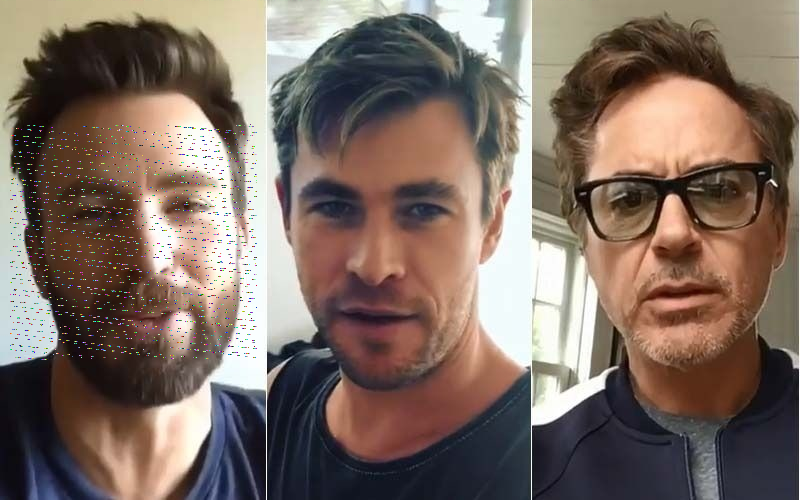
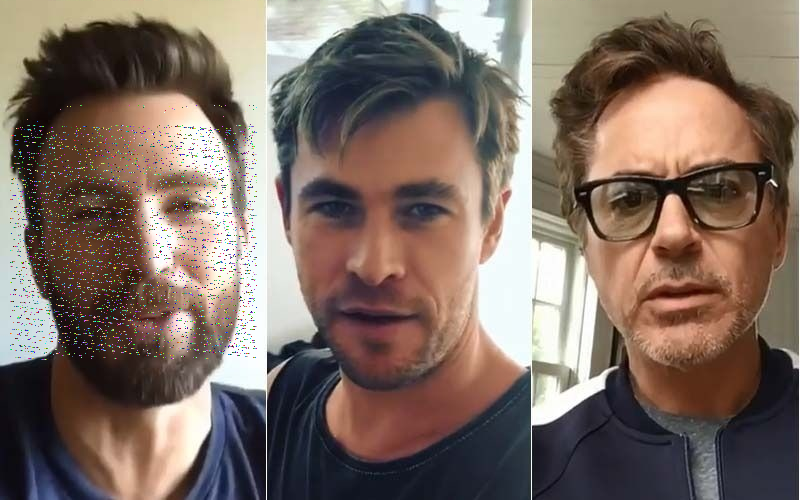
added gui all buttons except share

diff --git a/Encryption/UserInterface.py b/Encryption/UserInterface.py
@@ -1,7 +1,10 @@
 import tkinter as tk
 from tkinter import filedialog, Text
+
+import cv2
 from PIL import ImageTk, Image
 import Encryption.Encrypt as enc
+import Decryption.Decrypt as dec
 import os
 
 class Application:
@@ -17,7 +20,7 @@ class Application:
         return
 
     def upload(self):
-        dir=r"C:\Users\PUSHPENDRA KUMAR\PycharmProjects\FaceCrypto\Encryption\Images"
+        dir= r"/Encryption/Images"
         self.filedir = filedialog.askopenfilename(initialdir=dir,title='select images',
                            filetypes=[('Image Files', ['.jpeg', '.jpg', '.png', ])])
         # print(self.filedir)
@@ -35,7 +38,7 @@ class Application:
     def createWidgets(self,filename):
         # create a canvas with background image
         self.window.title("Face Cryptography")
-        self.window.iconbitmap("F:\downloads\pic.jpg")
+        self.window.iconbitmap("")
         self.window.geometry('610x500')
         frame=tk.Frame(self.window,width=500,height=300,highlightbackground='red'
                        ,highlightthickness=3)
@@ -43,6 +46,7 @@ class Application:
         folder = "F:\downloads"
         # self.canvas = tk.Canvas(frame, height=1000, width=1000, bg="white")
         image = ImageTk.PhotoImage(Image.open(os.path.join(folder, filename)))
+        # image=cv2.imread("Images\\pic.jpg")
         label = tk.Label(image=image)
         label.grid(row=0, column=0)
         # frame.pack()
@@ -56,7 +60,7 @@ class Application:
         share_image = tk.Button(buttonframe,bg="black",fg="white",text="share"
                                ,padx=10,pady=10)
         decrypt_image = tk.Button(buttonframe,bg="black",fg="white",text="decrypt"
-                               ,padx=10,pady=10)
+                               ,padx=10,pady=10,command=dec.main)
         exit = tk.Button(buttonframe, bg="black", fg="white", text="exit"
                                   , padx=10, pady=10,command=self.exit)
         upload_image.grid(row=0,column=0,sticky='E',padx=10,pady=10)

diff --git a/Encryption/FaceDetection.py b/Encryption/FaceDetection.py
@@ -14,14 +14,14 @@ class Detection:
     def faceDetector(self):
         #print(self.filename)
         # imagePath =self.filepath
-        imagePath='image3.png'
+        # imagePath='image3.png'
         cascPath = cv2.data.haarcascades+'haarcascade_frontalface_default.xml'
         # create a face cascade
         faceCascade = cv2.CascadeClassifier(cascPath)
         # read a image
         # print(imagePath)
-        folder=r"C:\Users\PUSHPENDRA KUMAR\PycharmProjects\FaceCrypto\Encryption\Images"
-        image=cv2.imread(os.path.join(folder,imagePath))
+        # folder=r"C:\Users\PUSHPENDRA KUMAR\PycharmProjects\FaceCrypto\Encryption\Images"
+        image=cv2.imread(self.filepath)
         if image is None:
             print("could not load")
         # convert image to gray image

diff --git a/Encryption/Encrypt.py b/Encryption/Encrypt.py
@@ -16,7 +16,7 @@ getRGBfromI = lambda val: ((val >> 16) & 255, (val >> 8) & 255, val & 255)  # th
 
 class FileEncryption:
     def __init__(self, filename):
-        self.filepath = "Images\\" + filename
+        self.filepath = "Images\\"+ filename
         self.l = None
         self.x = None
         self.sigma=None
@@ -209,7 +209,7 @@ class FileEncryption:
         # print("\n")
 
 def main(filename):
-    print("hello")
+    # print("hello")
     print(filename)
     obj = FileEncryption(filename)
     obj.encrypt()

diff --git a/Decryption/Decrypt.py b/Decryption/Decrypt.py
@@ -206,4 +206,4 @@ def main():
     obj=FileDecryption()
     obj.decrypt('encrypted.png')
 
-main()
+# main()
